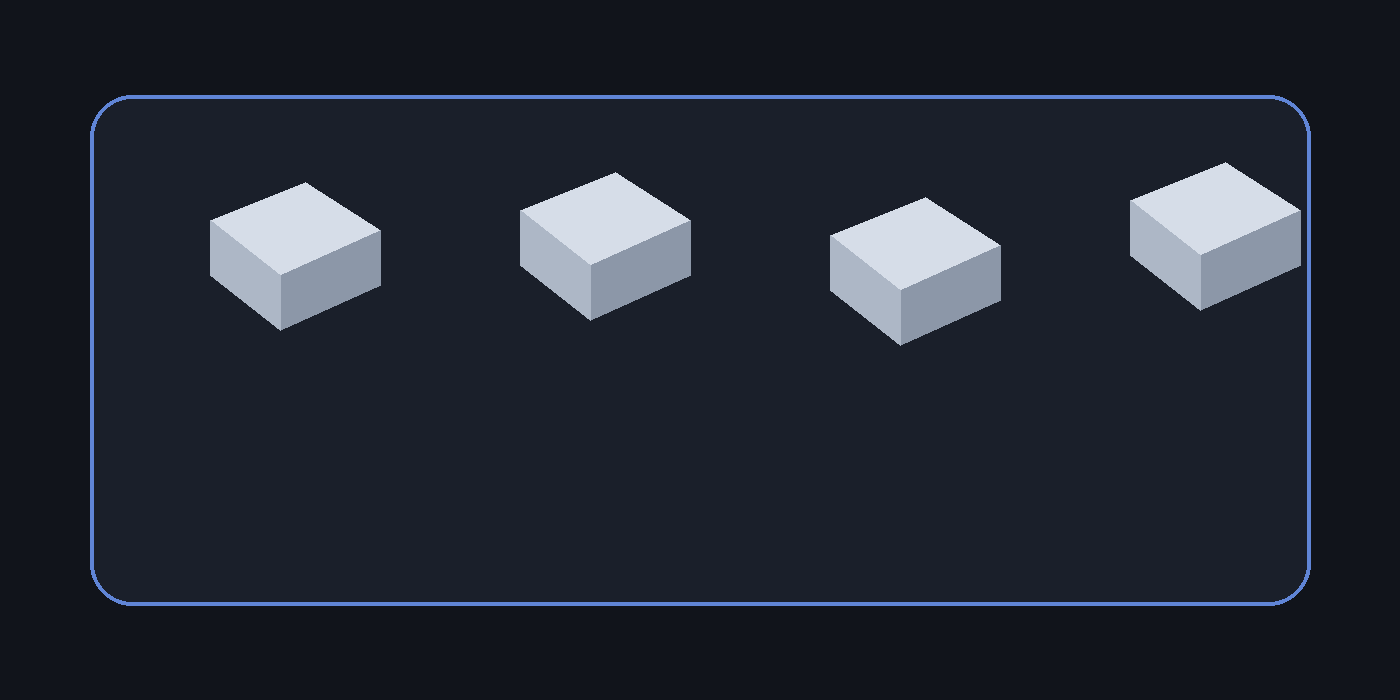
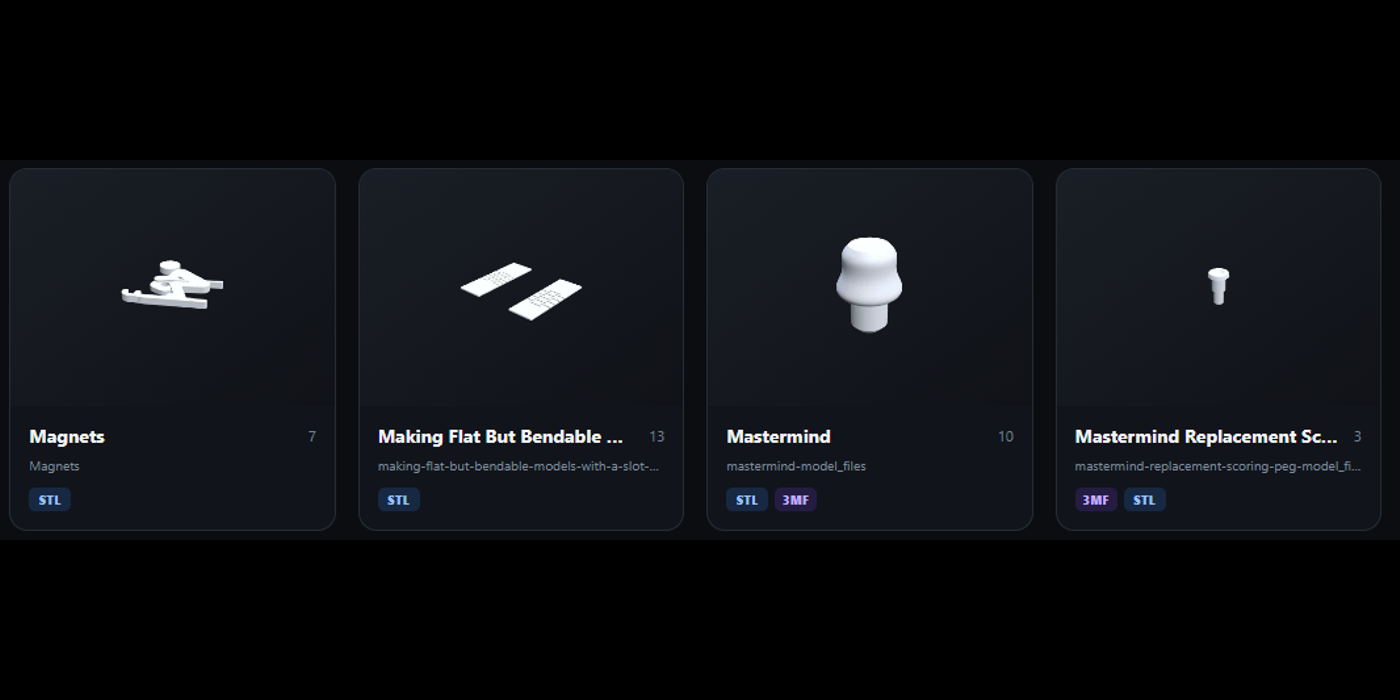
Polish Firefox folder access UX and intro

diff --git a/src/App.tsx b/src/App.tsx
@@ -495,13 +495,13 @@ export default function App() {
             <div>
               <div className="eyebrow">SOURCE LIBRARY</div>
               <h2 title={rootPath}>{rootName ?? 'No folder selected'}</h2>
-              <p className="muted">
-                {rootName
-                  ? 'Your source files remain in place. The catalogue only reads them.'
-                  : supportsDirectoryAccess
-                    ? 'Choose your 3D model library folder to begin.'
-                    : folderAccessMessage}
-              </p>
+              {(rootName || supportsDirectoryAccess) && (
+                <p className="muted">
+                  {rootName
+                    ? 'Your source files remain in place. The catalogue only reads them.'
+                    : 'Choose your 3D model library folder to begin.'}
+                </p>
+              )}
             </div>
 
             <div className="stat-row">

diff --git a/src/styles.css b/src/styles.css
@@ -51,6 +51,12 @@ button { color: inherit; }
 }
 .primary-button:hover { filter: brightness(1.06); }
 .primary-button:disabled { opacity: .6; cursor: wait; }
+.primary-button:disabled[title] {
+  opacity: .38;
+  cursor: not-allowed;
+  filter: saturate(.35);
+  box-shadow: none;
+}
 .primary-button.large { padding: 12px 18px; }
 
 .main-layout { display: flex; min-height: calc(100vh - 78px); }
@@ -535,7 +541,7 @@ button { color: inherit; }
   width: 100%;
   height: 100%;
   min-height: 220px;
-  object-fit: cover;
+  object-fit: contain;
   border-radius: 14px;
   border: 1px solid #313a4a;
 }
